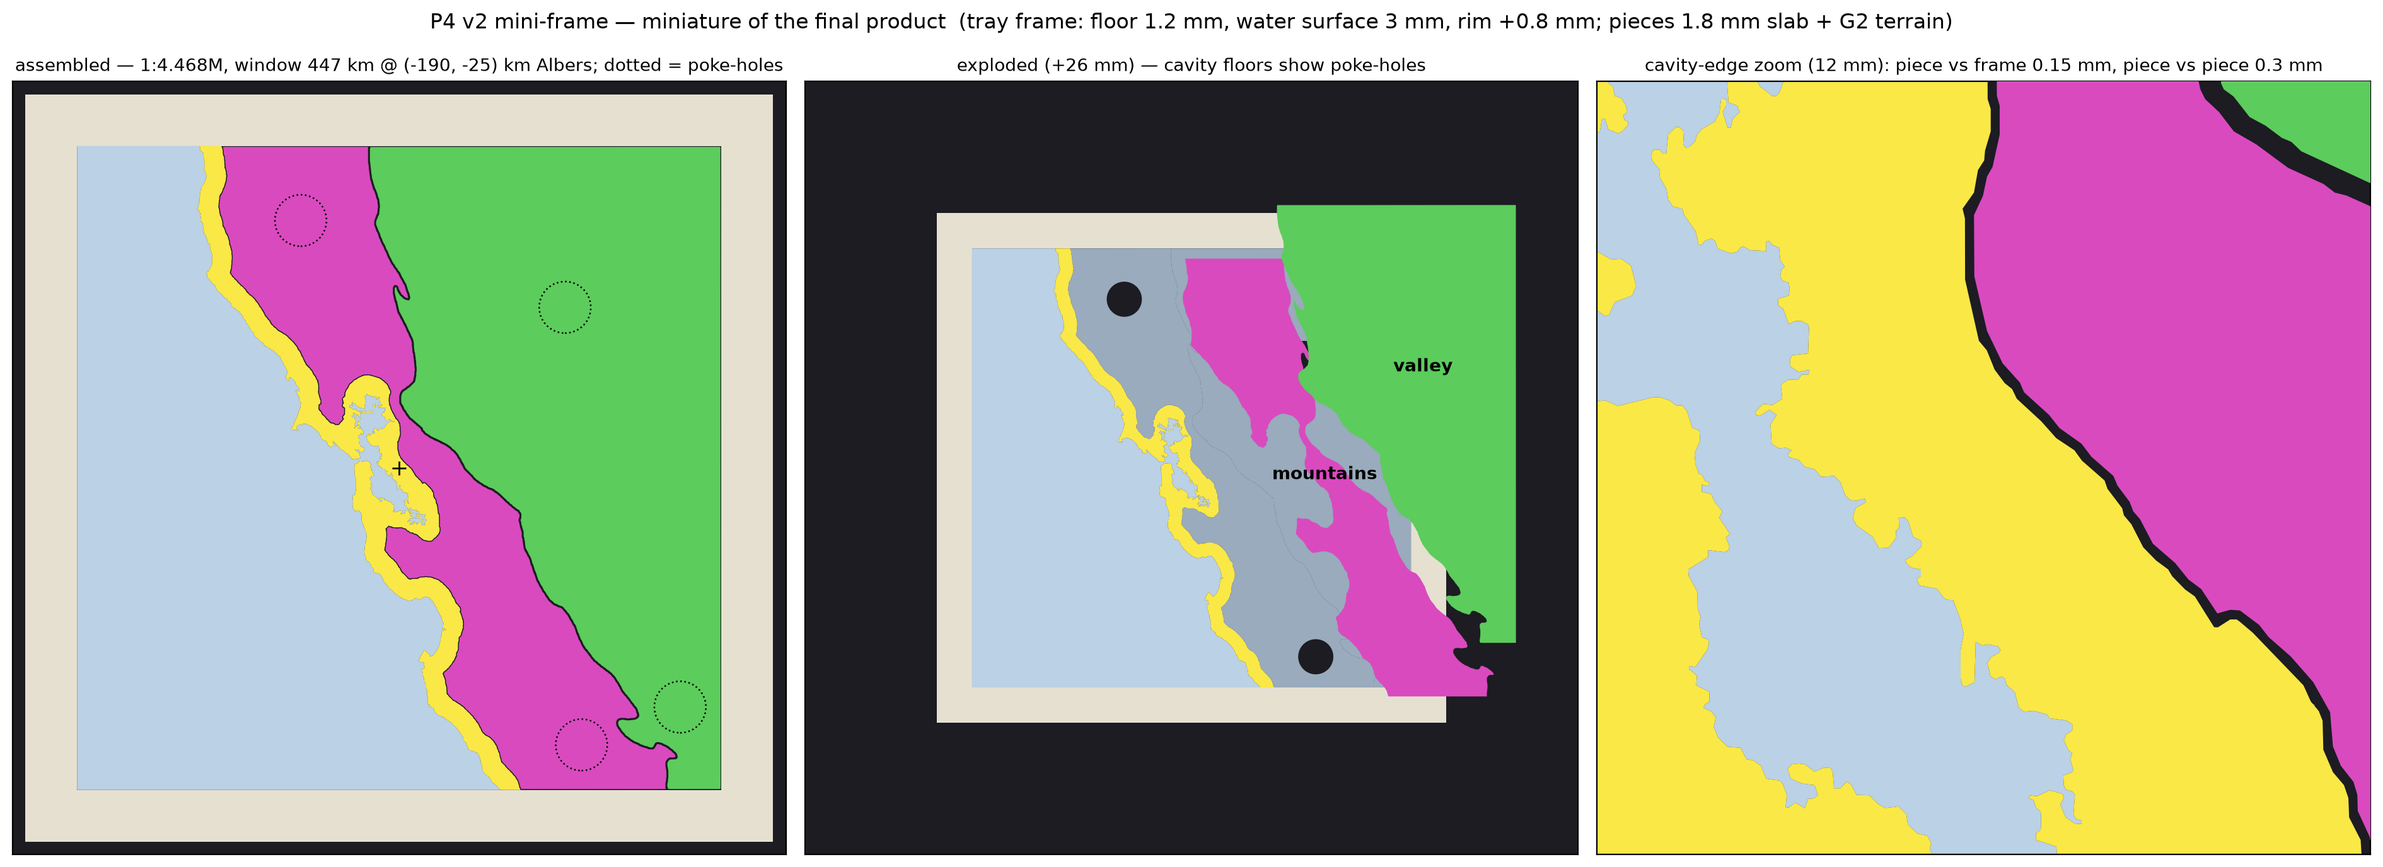
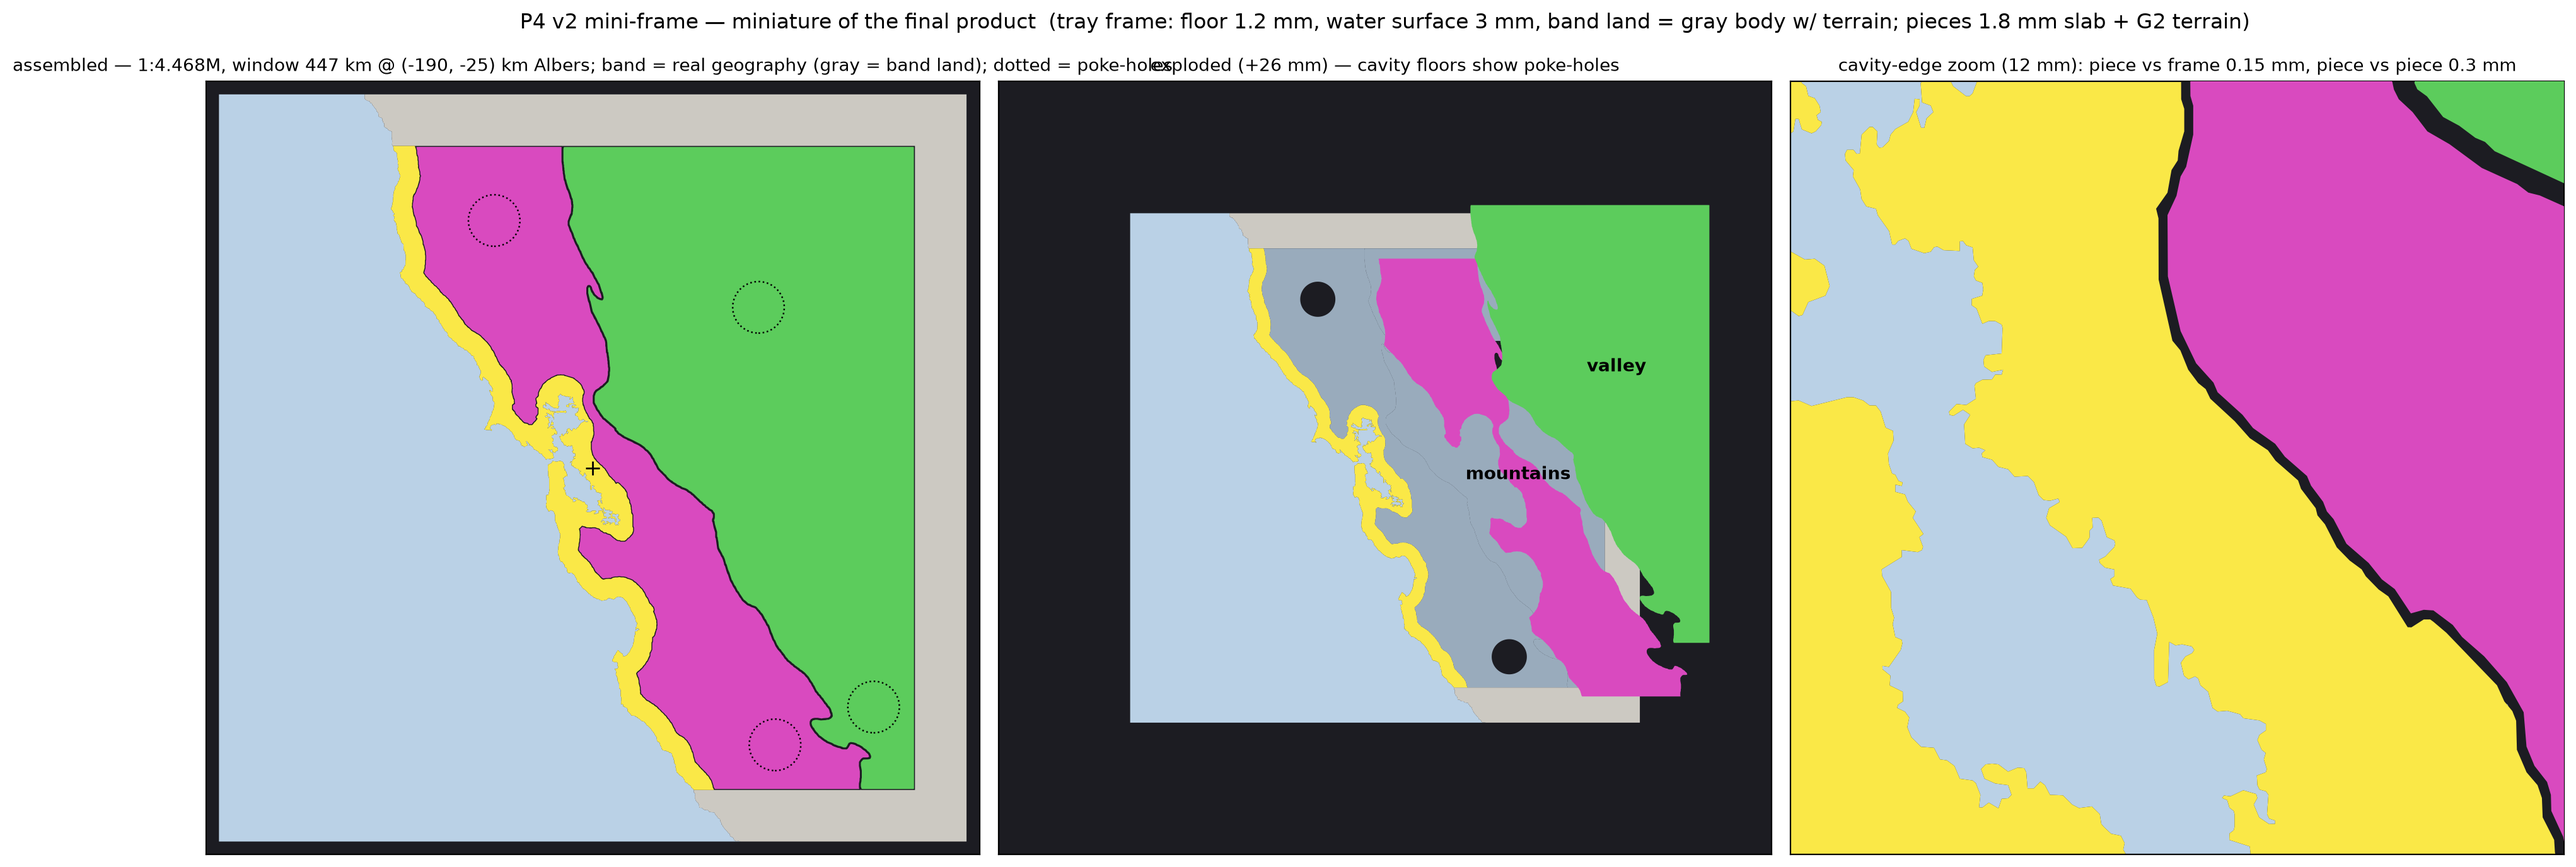
Mini-frame corrected per ahl: band = real geography (gray terrain on land only, water to print edge)
Claude-Session: https://claude.ai/code/session_01UmyBij4BnZ6xjWXXCv2QxT

diff --git a/pipeline/p4_bay_coupon.py b/pipeline/p4_bay_coupon.py
@@ -22,16 +22,27 @@ D13 window; see p2_layout.py): a ~100 mm square Bay Area window plus an
 The FRAME is a TRAY (one fixed part, 3-color Bambu 3MF per NOTES-3mf.md):
   - a continuous floor (FLOOR_MM) under the ENTIRE footprint, including
     under the removable pieces — cavities are recesses, not through-holes;
+  - the RIM_MM band around the inner window is REAL GEOGRAPHY (ahl's
+    correction): the map content simply continues ~36 km beyond the
+    window on all sides. Band LAND = the gray body, real topography at
+    the same G2 z-scale; band WATER = more water, flat at datum,
+    continuous with the inner water out to the print edge (so gray
+    appears only on sides where the band actually contains land);
   - water body (filament 2) = the floor everywhere + everything up to the
     water surface (BASE_MM above the bottom) outside the cavities: all
-    sea/bay flat at datum, and the sub-datum volume under coast and rim
-    (D14: below datum prints in water color);
-  - coast body (filament 1) = coastal-region land terrain (yellow), real
-    topography from datum up, with a small LAND_MIN_MM visibility floor;
-  - rim body (filament 3) = the artificial band around the window, a flat
-    plateau RIM_RAISE_MM above datum (reads as "land", distinct from
-    water);
-  - CAVITIES for Mountains and Valley at their NOMINAL region outlines;
+    sea/bay flat at datum, and the sub-datum volume under coast and gray
+    land (D14: below datum prints in water color);
+  - coast body (filament 1) = coastal-region land terrain (yellow) INSIDE
+    the inner window, real topography from datum up, with a small
+    LAND_MIN_MM visibility floor;
+  - gray body (filament 3) = ALL land in the outer band regardless of its
+    geographic region, same terrain treatment. The inner/outer boundary
+    on land is purely a color boundary between bodies (coincident
+    vertical walls, like the CA state line on the final product) — not a
+    physical wall or groove;
+  - CAVITIES for Mountains and Valley at their NOMINAL region outlines
+    (pieces are cut at the inner-window edge; where a cavity edge lies on
+    the window boundary its wall faces the gray band-land);
   - POKE-HOLES: two 8 mm circular through-holes in the floor under each
     removable piece (at deep-interior points) to push pieces out.
 
@@ -73,9 +84,8 @@ sys.path.insert(0, str(Path(__file__).resolve().parent))
 import p1_regions as base
 
 # ------------------------------------------------------------------ params
-WINDOW_MM = 100.0        # geographic window, print mm (square)
-RIM_MM = 8.0             # artificial gray rim width -> ~116 mm total print
-RIM_RAISE_MM = 0.8       # rim plateau height above datum
+WINDOW_MM = 100.0        # inner window (pieces + cavities), print mm
+RIM_MM = 8.0             # real-geography band beyond the window (~36 km)
 # Window center (CA Albers km): west/south of the Carquinez junction so
 # the bay-wrapping Coast Range mountains are the DOMINANT mountains
 # fragment (per ahl's sketch: SF Bay left-of-center, valley entering the
@@ -106,14 +116,16 @@ OVERLAP_MM = 0.05        # internal z-overlap of the water body's 2 solids
 CLEAR_PX = CLEARANCE_MM / PX_MM
 PAD_PX = 12
 N_PX = int(round(WINDOW_MM / PX_MM))
+RIM_PX = int(round(RIM_MM / PX_MM))
+N_FP = N_PX + 2 * RIM_PX          # raster covers the full footprint
 
 # Bambu filament slots (1-based; ahl maps AMS slots when slicing)
-EXTRUDERS = {"coast": 1, "water": 2, "rim": 3}
+EXTRUDERS = {"coast": 1, "water": 2, "gray": 3}
 
 REGION_NAME = {base.MOUNTAINS: "mountains", base.VALLEY: "valley",
                base.DESERT: "desert", base.COAST: "coast"}
 WATER_RGB = (0.73, 0.82, 0.90)
-RIM_RGB = (0.90, 0.88, 0.82)
+GRAY_RGB = (0.80, 0.79, 0.76)
 
 ROOT = base.ROOT
 DATA = base.DATA
@@ -199,8 +211,9 @@ def g2_z_scale(reg, sea, dem, win):
 
 # ------------------------------------------------------------ window build
 def window_rasters(reg, sea, dem, s, cx, cy):
-    x_mm = (np.arange(N_PX) + 0.5) * PX_MM
-    y_mm = WINDOW_MM - (np.arange(N_PX) + 0.5) * PX_MM
+    """Rasters over the FULL footprint (window + band), print grid."""
+    x_mm = (np.arange(N_FP) + 0.5) * PX_MM - RIM_MM
+    y_mm = WINDOW_MM + RIM_MM - (np.arange(N_FP) + 0.5) * PX_MM
     gx = cx + (x_mm - WINDOW_MM / 2) / (s * 1000.0)
     gy = cy + (y_mm - WINDOW_MM / 2) / (s * 1000.0)
     cols = (gx - base.META["x_min"]) / base.META["res"] - 0.5
@@ -270,11 +283,17 @@ def fill_and_contiguity(regw, seaw, notes, s, cx, cy):
 
 
 # -------------------------------------------------- polygon extraction
-def mask_polygon(mask, erode_px):
+def mask_polygon(mask, erode_px, origin_mm=0.0, clip=None):
     """Sub-pixel polygon of `mask` shrunk inward by erode_px pixels (0 =
     nominal outline). EDT of the zero-padded mask, gaussian-smoothed,
     contoured at erode_px + 0.5 (the +0.5 corrects EDT's measure-to-pixel-
-    centers offset); accuracy ~+/-0.5 px (0.025 mm) before SIMPLIFY_MM."""
+    centers offset); accuracy ~+/-0.5 px (0.025 mm) before SIMPLIFY_MM.
+    origin_mm: mm coordinate of the mask's lower-left corner (0 for
+    window-indexed masks, -RIM_MM for footprint-indexed). clip: shapely
+    box to intersect with (default = the inner window)."""
+    if clip is None:
+        clip = box(0, 0, WINDOW_MM, WINDOW_MM)
+    span = mask.shape[0] * PX_MM
     padded = np.pad(mask, PAD_PX, mode="constant", constant_values=False)
     field = ndimage.distance_transform_edt(padded)
     if EDT_SMOOTH_PX > 0:
@@ -283,8 +302,8 @@ def mask_polygon(mask, erode_px):
     for lp in measure.find_contours(field, erode_px + 0.5):
         if len(lp) < 4:
             continue
-        xs = (lp[:, 1] - PAD_PX + 0.5) * PX_MM
-        ys = WINDOW_MM - (lp[:, 0] - PAD_PX + 0.5) * PX_MM
+        xs = (lp[:, 1] - PAD_PX + 0.5) * PX_MM + origin_mm
+        ys = span + origin_mm - (lp[:, 0] - PAD_PX + 0.5) * PX_MM
         ring = Polygon(np.column_stack([xs, ys]))
         if not ring.is_valid:
             ring = ring.buffer(0)
@@ -297,7 +316,7 @@ def mask_polygon(mask, erode_px):
     geom = rings[0]
     for r in rings[1:]:                        # even-odd nesting
         geom = geom.symmetric_difference(r)
-    geom = geom.intersection(box(0, 0, WINDOW_MM, WINDOW_MM))
+    geom = geom.intersection(clip)
     geom = geom.simplify(SIMPLIFY_MM, preserve_topology=True)
     parts = [g for g in getattr(geom, "geoms", [geom])
              if g.geom_type == "Polygon" and g.area > 1e-6]
@@ -592,7 +611,6 @@ def render_preview(geo, s, tj, holes):
     matplotlib.use("Agg")
     import matplotlib.pyplot as plt
 
-    rim_ring = geo["rim_ring"]
     water_vis = geo["water_visible"]
     cav_floor = {n: geo[f"{n}_nom"] for n in ("mountains", "valley")}
     fig, axes = plt.subplots(1, 3, figsize=(19, 7.2), dpi=200)
@@ -600,8 +618,8 @@ def render_preview(geo, s, tj, holes):
     for col, ax in enumerate(axes):
         ax.set_facecolor("#1c1c22")
         explode = col == 1
-        add_poly(ax, rim_ring, RIM_RGB)
         add_poly(ax, water_vis, WATER_RGB)
+        add_poly(ax, geo["gray"], GRAY_RGB, z=2)
         add_poly(ax, geo["coast_nom"], base.COLORS[base.COAST], z=2)
         for name in ("mountains", "valley"):
             rid = {v: k for k, v in REGION_NAME.items()}[name]
@@ -634,8 +652,8 @@ def render_preview(geo, s, tj, holes):
             ax.set_title(
                 f"assembled — 1:{1 / s / 1e6:.3f}M, window "
                 f"{WINDOW_MM / s / 1e6:.0f} km @ ({CENTER_KM[0]:.0f}, "
-                f"{CENTER_KM[1]:.0f}) km Albers; dotted = poke-holes",
-                fontsize=10)
+                f"{CENTER_KM[1]:.0f}) km Albers; band = real geography "
+                "(gray = band land); dotted = poke-holes", fontsize=10)
         elif col == 1:
             ax.set_xlim(-RIM_MM - 30, WINDOW_MM + RIM_MM + 30)
             ax.set_ylim(-RIM_MM - 30, WINDOW_MM + RIM_MM + 30)
@@ -652,8 +670,8 @@ def render_preview(geo, s, tj, holes):
     fig.suptitle(
         "P4 v2 mini-frame — miniature of the final product  "
         f"(tray frame: floor {FLOOR_MM:g} mm, water surface {BASE_MM:g} mm,"
-        f" rim +{RIM_RAISE_MM:g} mm; pieces {PIECE_SLAB_MM:g} mm slab + "
-        "G2 terrain)", fontsize=12)
+        f" band land = gray body w/ terrain; pieces {PIECE_SLAB_MM:g} mm "
+        "slab + G2 terrain)", fontsize=12)
     fig.tight_layout()
     fig.savefig(OUT / "p4_preview.png", bbox_inches="tight",
                 facecolor="white")
@@ -697,11 +715,17 @@ def main():
     cx, cy = CENTER_KM[0] * 1000.0, CENTER_KM[1] * 1000.0
     ground_km = WINDOW_MM / s / 1e6
     print(f"window: {WINDOW_MM:g} mm = {ground_km:.0f} km square @ Albers "
-          f"({CENTER_KM[0]:.0f}, {CENTER_KM[1]:.0f}) km; rim {RIM_MM:g} mm "
-          f"-> total {WINDOW_MM + 2 * RIM_MM:g} mm square")
+          f"({CENTER_KM[0]:.0f}, {CENTER_KM[1]:.0f}) km; real-geography "
+          f"band {RIM_MM:g} mm (~{RIM_MM / s / 1e6:.0f} km) -> total "
+          f"{WINDOW_MM + 2 * RIM_MM:g} mm square")
 
     notes = []
-    regw, seaw, demw = window_rasters(reg, sea, dem, s, cx, cy)
+    # full-footprint rasters; window views drive pieces/cavities/coast
+    regw_fp, seaw_fp, demw_fp = window_rasters(reg, sea, dem, s, cx, cy)
+    win_sl = (slice(RIM_PX, -RIM_PX), slice(RIM_PX, -RIM_PX))
+    regw = regw_fp[win_sl].copy()
+    seaw = seaw_fp[win_sl].copy()
+    demw = demw_fp[win_sl]
     if (regw == base.DESERT).any():
         # desert is out of scope for the mini (no desert piece/cavity);
         # leaving it unowned would punch a void in the frame — fold it
@@ -718,7 +742,8 @@ def main():
 
     max_e_win = float(demw[~seaw].max())
     print(f"max elev in window {max_e_win:.0f} m -> terrain top "
-          f"{BASE_MM + max_e_win * z_per_m:.2f} mm above print bottom")
+          f"{BASE_MM + max_e_win * z_per_m:.2f} mm above print bottom "
+          f"(footprint incl. band: {float(demw_fp[~seaw_fp].max()):.0f} m)")
 
     # ---- polygons -------------------------------------------------------
     geo = {}
@@ -739,11 +764,39 @@ def main():
     footprint = box(-RIM_MM, -RIM_MM, WINDOW_MM + RIM_MM,
                     WINDOW_MM + RIM_MM)
     window_box = box(0, 0, WINDOW_MM, WINDOW_MM)
-    geo["rim_ring"] = footprint.difference(window_box)
+
+    # gray body: ALL land in the outer band, regardless of region --
+    # real geography continuing past the window to the print edge
+    land_fp = mask_polygon(~seaw_fp, 0.0, origin_mm=-RIM_MM, clip=footprint)
+    gray = land_fp.difference(window_box) if land_fp is not None else None
+    gparts = _parts(gray, MIN_COAST_PART_MM2) if gray is not None else []
+    n_crumb = (len(list(getattr(gray, "geoms", [gray]))) - len(gparts)
+               if gray is not None else 0)
+    if n_crumb:
+        notes.append(f"gray body: dropped {n_crumb} band-land crumb "
+                     f"part(s) < {MIN_COAST_PART_MM2} mm^2")
+    assert gparts, "no land in the band at all?"
+    geo["gray"] = MultiPolygon(gparts) if len(gparts) > 1 else gparts[0]
+    assert geo["gray"].intersection(window_box).area < 1e-6
+
     cavities = geo["mountains_nom"].union(geo["valley_nom"])
     upper_water = footprint.difference(cavities)
-    geo["water_visible"] = window_box.difference(cavities).difference(
-        geo["coast_nom"])
+    geo["water_visible"] = footprint.difference(cavities).difference(
+        geo["coast_nom"]).difference(geo["gray"])
+
+    # which footprint edges actually show gray (check vs ahl's sketch)
+    sides = {"west": box(-RIM_MM, -RIM_MM, 0, WINDOW_MM + RIM_MM),
+             "east": box(WINDOW_MM, -RIM_MM, WINDOW_MM + RIM_MM,
+                         WINDOW_MM + RIM_MM),
+             "north": box(-RIM_MM, WINDOW_MM, WINDOW_MM + RIM_MM,
+                          WINDOW_MM + RIM_MM),
+             "south": box(-RIM_MM, -RIM_MM, WINDOW_MM + RIM_MM, 0)}
+    print("  gray band land per side:")
+    for sname, sbox in sides.items():
+        a = geo["gray"].intersection(sbox).area
+        pct = 100 * a / sbox.area
+        print(f"    {sname:5s}: {a:7.1f} mm^2 ({pct:4.1f}% of that band)"
+              + ("  [no gray]" if a < 1.0 else ""))
 
     # ---- poke-holes -----------------------------------------------------
     holes = {n: poke_points(geo[f"{n}_nom"]) for n in ("mountains", "valley")}
@@ -784,19 +837,22 @@ def main():
     ok &= report_mesh("water(+floor)", water_mesh)
     coast_mesh = solid_mesh(geo["coast_nom"], terrain_coast, BASE_MM)
     ok &= report_mesh("coast", coast_mesh)
-    rim_mesh = solid_mesh(geo["rim_ring"],
-                          lambda v: np.full(len(v), BASE_MM + RIM_RAISE_MM),
-                          BASE_MM, quality=False)
-    ok &= report_mesh("rim", rim_mesh)
+    gray_mesh = solid_mesh(geo["gray"], terrain_coast, BASE_MM)
+    ok &= report_mesh("gray", gray_mesh)
+    gray_max = gray_mesh.bounds[1][2]
+    print(f"    gray terrain top {gray_max:.2f} mm "
+          f"(~{(gray_max - BASE_MM) / z_per_m:.0f} m)")
 
-    # inter-body overlap sanity (z-disjoint by construction; lateral check)
-    assert geo["coast_nom"].intersection(geo["rim_ring"]).area < 1e-6
+    # inter-body overlap sanity (z-disjoint by construction; lateral
+    # check: coast is inside the window, gray strictly outside — they
+    # meet only along the window-edge line, a pure color boundary)
+    assert geo["coast_nom"].intersection(geo["gray"]).area < 1e-6
 
     frame_path = OUT_DIR / "frame.3mf"
     write_bambu_3mf(frame_path, "p4_mini_frame",
                     [("coast", coast_mesh, EXTRUDERS["coast"]),
                      ("water", water_mesh, EXTRUDERS["water"]),
-                     ("rim", rim_mesh, EXTRUDERS["rim"])])
+                     ("gray", gray_mesh, EXTRUDERS["gray"])])
     print(f"  -> {frame_path} ({frame_path.stat().st_size / 1e6:.1f} MB)  "
           f"[{lint_3mf(frame_path)}]")
     with zipfile.ZipFile(frame_path) as z:
